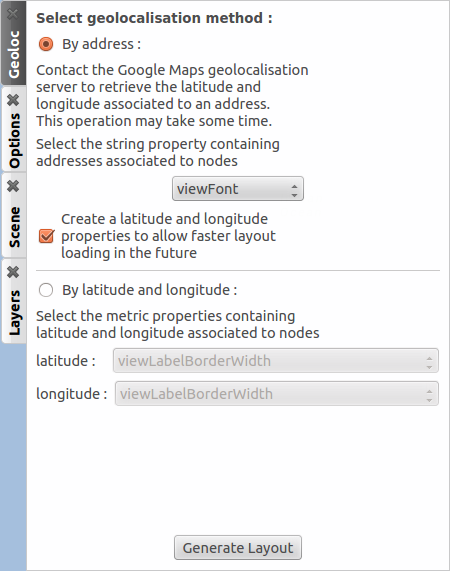
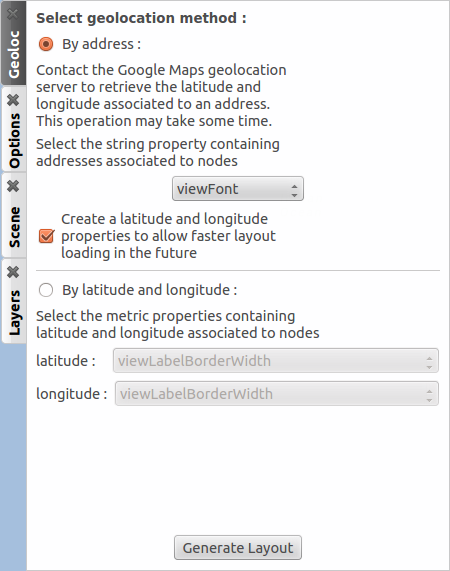
Geographic view documentation fixes
git-svn-id: https://svn.code.sf.net/p/auber/code/tulip@10193 f5d4c5f9-c943-4916-8a57-bd8605bf961c

Changed region(s): [[0.3111, 0.0, 0.5911, 0.0595], [0.56, 0.0893, 0.6844, 0.1489]]

diff --git a/doc/user/workspace.rst b/doc/user/workspace.rst
@@ -598,15 +598,15 @@ Otherwise, the toolbar should be used as usual, the left side containing the too
 
 .. _workspace_geographic_geoloc:
 
-Geoloc
-------
+Geolocation
+-----------
 
 .. image:: _images/i_geographic_geoloc.png
     :width: 450
 
-A geolocalization tool has been embedded in the view, exploiting the Google Maps web service. It is used to appropriatly place the nodes on the map.
+A geolocation tool has been embedded in the view, exploiting the Google Maps web service. It can appropriatly place the nodes on the map.
 
-You can choose among two methods to place the elements, either by providing a valid address for each node, stored in a property you will select, or by using the latitude and longitude value, each contained in their respective properties.
+You can choose among two methods to place the elements, either by providing a valid address for each node, stored in a property you will select, or by using the already computed latitude and longitude values, each contained in their respective properties.
 
 The above europe map snapshots for example have been build in such a way, by giving to each node a town name.
 
@@ -623,7 +623,7 @@ Options
 .. image:: _images/i_geographic_options.png
     :width: 449
 
-The polygon map shape can be switched to your convenience with another one. Choose if you want to use the default shape, or a new one imported through a *csv* or a *poly* file. The *help* button displays additional information concerning the file format and available source addresses.
+The polygon map shape can be switched to your convenience with another one. Choose if you want to use the default shape, or a new one imported through a *csv* or a *poly* file. The *help* button displays additional information about the file format and the available source addresses.
 
 
 .. _workspace_geographic_scene:
@@ -634,7 +634,7 @@ Scene
 .. image:: _images/i_geographic_scene.png
     :width: 449
 
-The properties displayed in this panel are completely similar to the ones in the Node-Link Diagram's scene rendering panel. Report to :ref:`the concerned section<workspace_diagram_scene>` if you need additional information.
+The properties displayed in this panel are completely similar to the ones in the Node-Link Diagram's scene rendering panel. Report to :ref:`the Scene dedicated section<workspace_diagram_scene>` if you need additional information.
 
 
 .. _workspace_geographic_layers:
@@ -645,7 +645,7 @@ Layers
 .. image:: _images/i_geographic_layers.png
     :width: 449
 
-As for the scene panel, the layers settings behave like the one in the Node Link Diagram view. More information :ref:`this way<workspace_diagram_layers>`.
+As for the scene panel, the layers settings behave like the one in the Node Link Diagram view. More information :ref:`Layers dedicated section<workspace_diagram_layers>`.
 
 
 .. _workspace_histogram:
